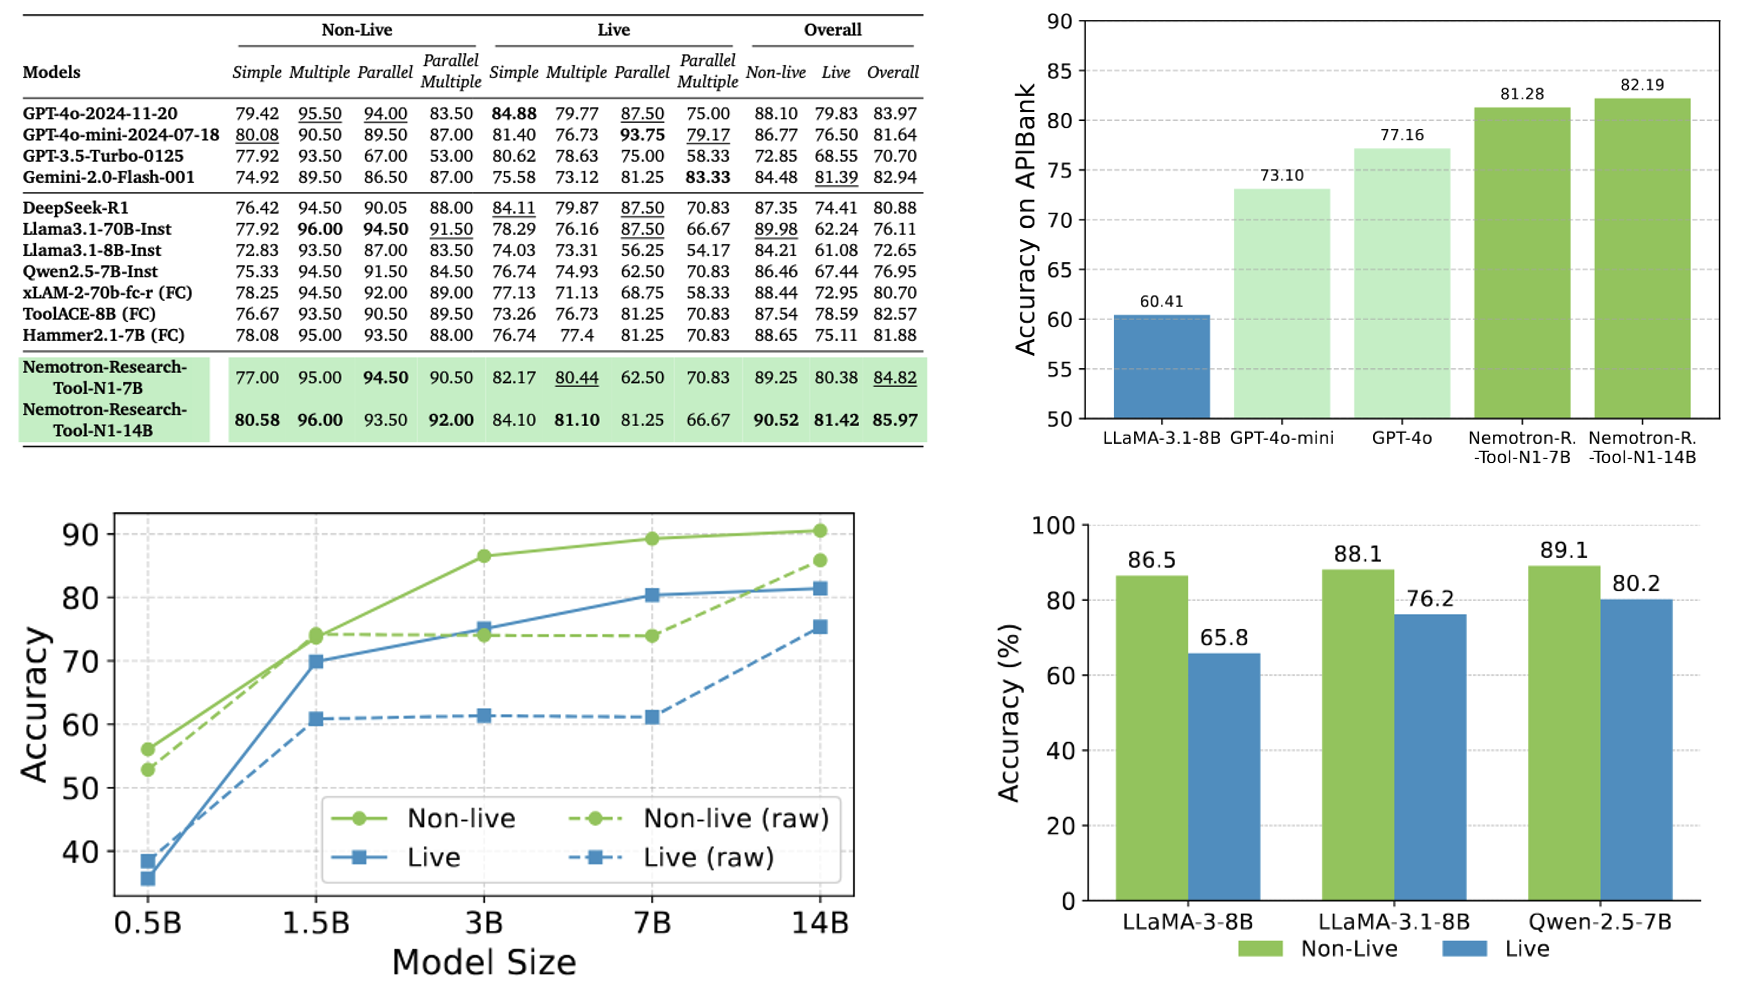
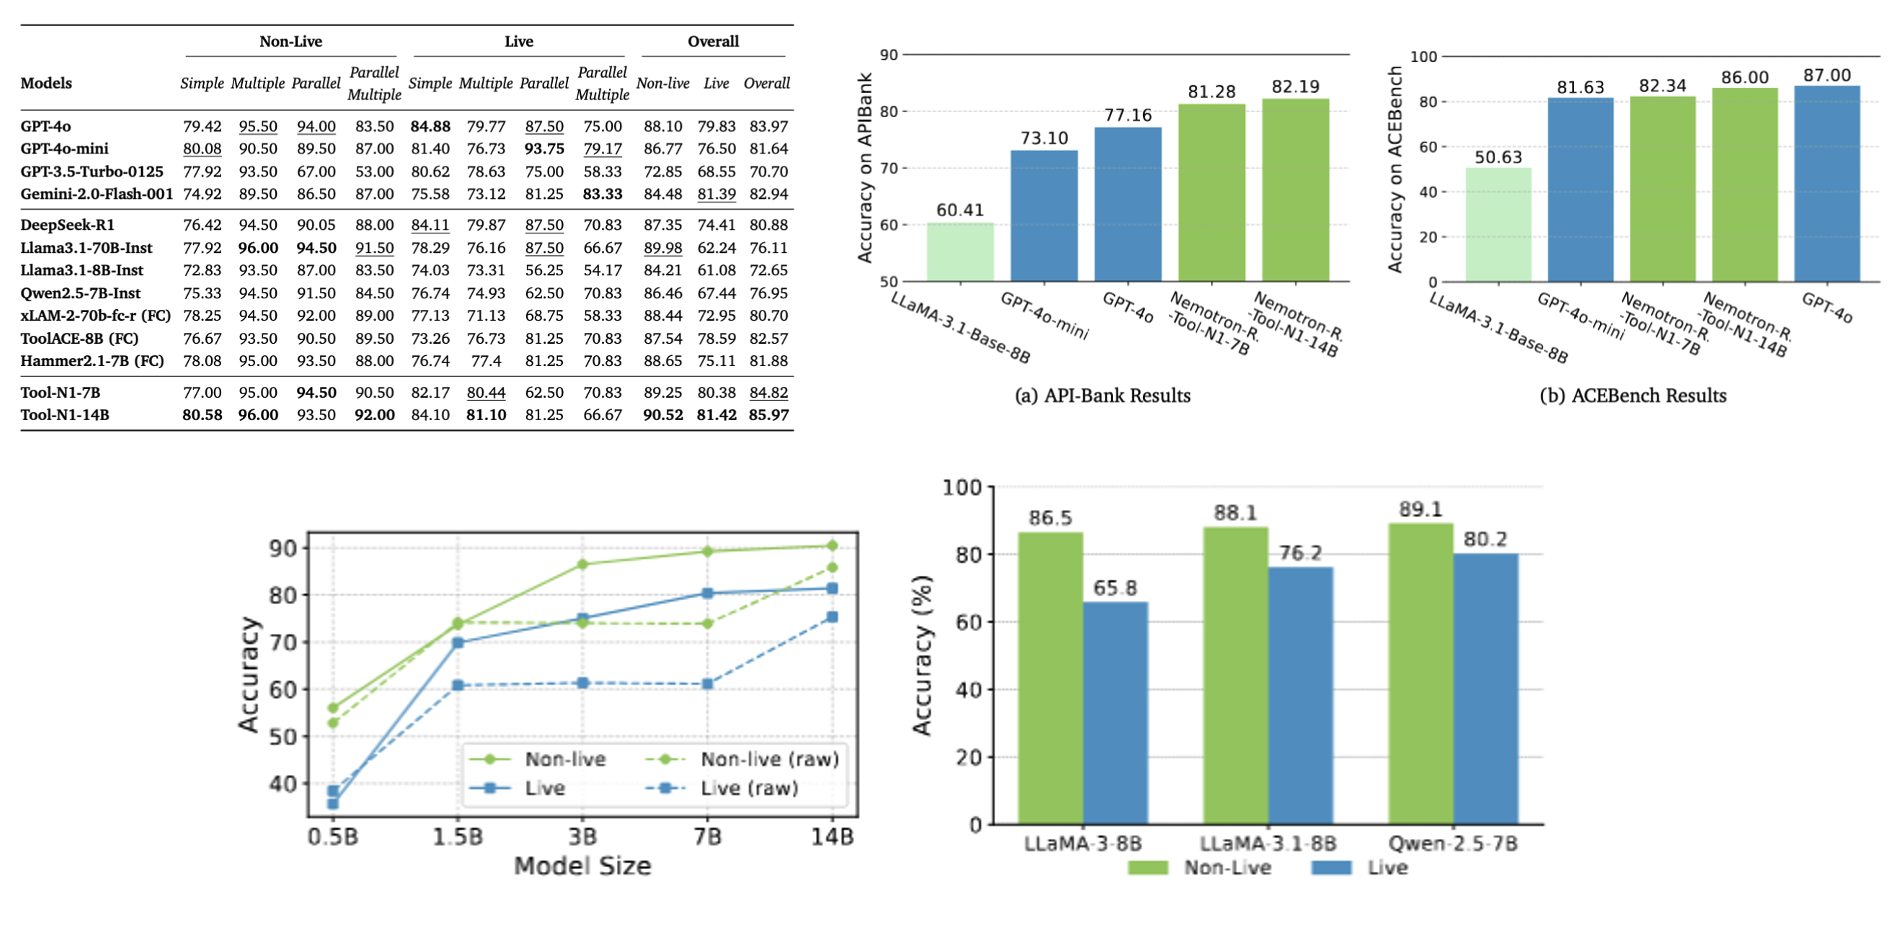
update

diff --git a/README.md b/README.md
@@ -7,18 +7,19 @@
 
 > [!IMPORTANT]
 > - **We will release the code shortly in this repository, pending completion of NVIDIA's confidential review process.**
-> - **More results will be released soon - stay tuned!**
 
-We present Nemotron-Research-Tool-N1, a family of tool-using reasoning language models. We develop an R1-style RL training algorithm that employs a binary reward to supervise only the structural format and functional correctness of tool calls, without requiring explicit reasoning annotations. This approach enables models to generalize beyond strict token-level imitation and acquire reasoning capabilities directly from standard tool-calling data. We optimize the policy model using the GRPO. Experimental results on the BFCL and API-Bank benchmarks show that Nemotron-Research-Tool-N1-7B and Nemotron-Research-Tool-N1-14B, built upon Qwen2.5-7B/14B-Instruct, consistently outperform GPT-4o and other specialized open-source tool-calling models.
+We present Nemotron-Research-Tool-N1, a family of tool-using reasoning language models. These models are trained with an R1-style reinforcement learning algorithm that uses a binary reward to supervise only the structural format and functional correctness of tool calls, without requiring explicit reasoning annotations. This allows the models to generalize beyond token-level imitation and acquire reasoning capabilities directly from standard tool-calling data. The policy is optimized using GRPO.
+Experimental results on the BFCL, API-Bank, and AceBench benchmarks show that Tool-N1-7B and 14B, built on Qwen2.5-7B/14B-Instruct, significantly outperform GPT-4o and other leading open-source tool-calling models.
+Additionally, we conduct a systematic study of rule-based RL strategies. Using 5,518 distilled reasoning trajectories, we compare pure RL, supervised fine-tuning (SFT), and the commonly used SFT-then-RL pipeline. Our analysis reveals that the SFT-then-RL approach does not consistently pure RL.
 
 <p align="center">
-<img src="./assets/overview.png" width="70%" alt="Overview" />
+<img src="./assets/overview.png" width="100%" alt="Overview" />
 </p>
 
 ## Method
 
 <p align="center">
-<img src="./assets/thinking_template.png" width="70%" alt="thinking_template" />
+<img src="./assets/thinking_template.png" width="100%" alt="thinking_template" />
 </p>
 
 - **Lightweight Reward Design:** Nemotron-Research-Tool-N1 employs an R1-style binary reward that supervises only the structural validity and functional correctness of tool calls, without requiring detailed supervision of intermediate reasoning steps.
@@ -33,7 +34,7 @@ We present Nemotron-Research-Tool-N1, a family of tool-using reasoning language 
 
 <img src="./assets/exp_main.png" width="99%" alt="exp_main" />
 
-We mainly perform evaluations on the BFCL and API Bank.
+We mainly perform evaluations on the BFCL, APIBank and ACEBench.
 
 - RL offers a more effective paradigm for enhancing the tool-calling capabilities of LLMs compared to standard supervised fine-tuning.
 
@@ -41,7 +42,7 @@ We mainly perform evaluations on the BFCL and API Bank.
 
 - Qwen2.5-Instruct outperforms both LLaMA variants at the same model scale after training with the proposed method.
 
-## Reward Designing and Training Data Composition
+## Deep Analysis
 
 **RL Reward Designing:** Ablation study on reward granularity. We compare fine-grained reward designs, where partial credit is given for correct reasoning format and correct function names in function call stages, with binary rewards that assign full reward only when all conditions are fully satisfied. The results show that binary rewards consistently yield better performance, especially in the Live setting.
 
@@ -51,6 +52,12 @@ We mainly perform evaluations on the BFCL and API Bank.
 
 <img src="./assets/data_composition.png" width="65%" alt="data_composition" />
 
+
+**SFT or RL?**  (1) Although the combination of SFT on reasoning trajectories followed by RL is commonly regarded as the best practice in many domains, we do not observe improved performance under equal data budgets in the tool-calling setting.
+(2) Pure RL outperforms both Reason-SFT and No-Reason SFT under equal data budgets.
+(3) Interestingly, No-Reason SFT performs only slightly worse than Reason-SFT, suggesting that providing reasoning traces during SFT offers limited additional benefit.
+
+<img src="./assets/sft_or_rl.png" width="80%" alt="data_composition" />
 
 ## Citation
 ```md
